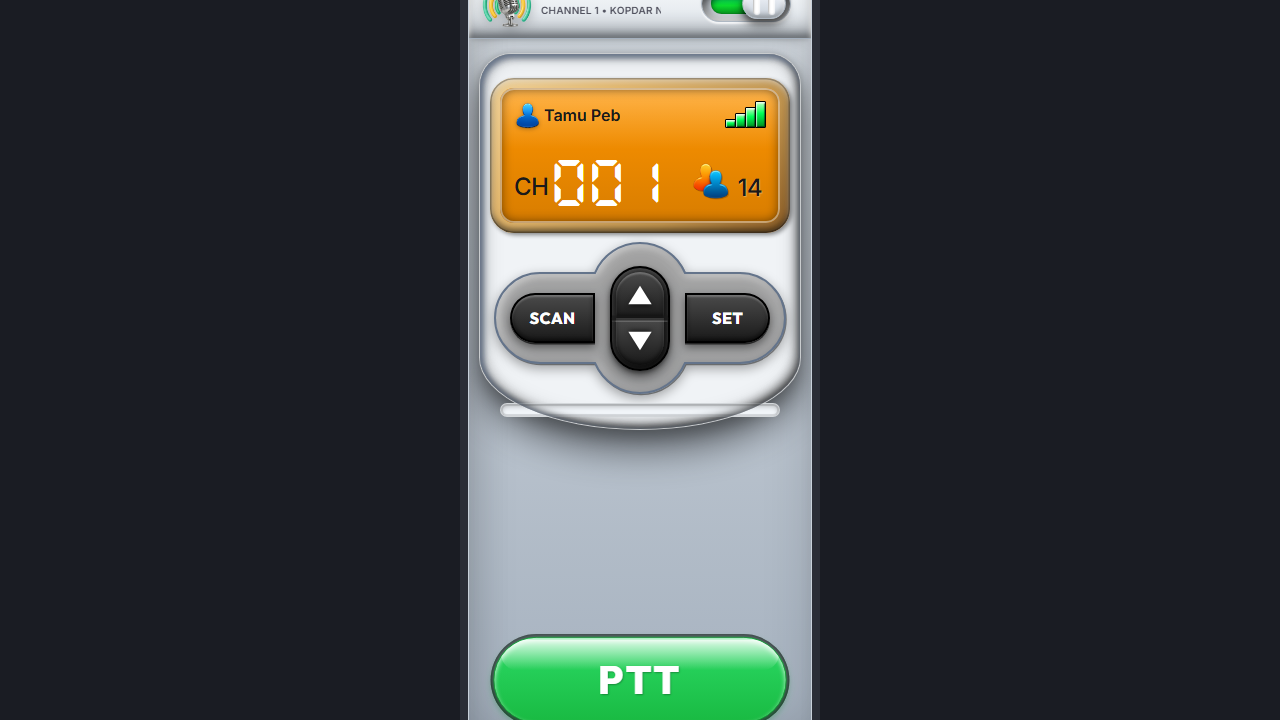
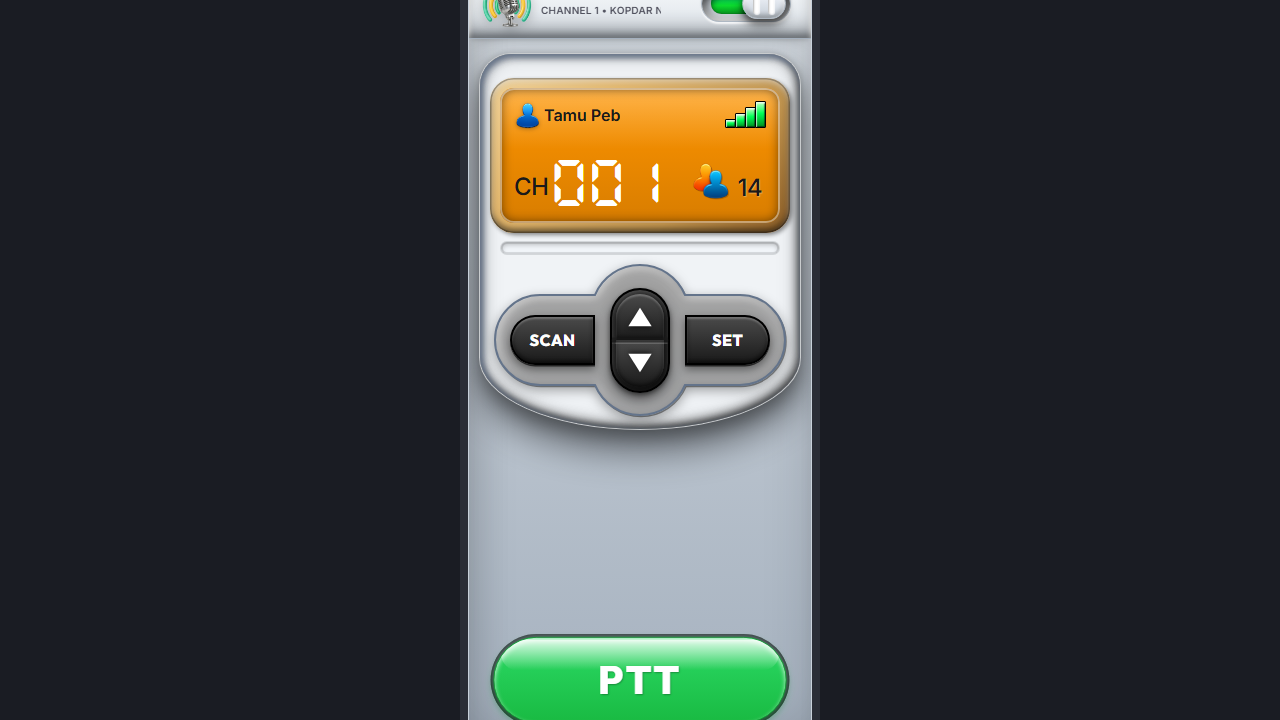
refactor: restore original layout order and add agent rules for visual integrity

Changed region(s): [[0.375, 0.3361, 0.625, 0.5806]]

diff --git a/src/app/components/RadioLayout.tsx b/src/app/components/RadioLayout.tsx
@@ -770,37 +770,37 @@ export function RadioLayout() {
               setIsTransmitting(true);
             }}
             onPressEnd={() => setIsTransmitting(false)}
-          >
-            {/* LCD Panel inside Faceplate */}
-            <RadioLCD
-              userCount={dynamicUserCount}
-              onUserCountClick={() => setIsUserListOpen(true)}
-            />
-
-            {/* D-pad Footer Buttons inside Faceplate */}
-            <RadioFooter
-              onScan={() => setIsChannelListOpen(true)}
-              onSet={handleSet}
-            />
-          </RadioBody>
-
-          {/* Quick Action Dock */}
-          <RadioQuickDock
-            isUserListOpen={isUserListOpen}
-            onOpenChat={() => setIsChatOpen(true)}
-            onOpenQueue={() => setIsQueueOpen(true)}
-            onSendReaction={handleSendReaction}
-            getThemeClass={getThemeClass}
+            lcd={
+              <RadioLCD
+                userCount={dynamicUserCount}
+                onUserCountClick={() => setIsUserListOpen(true)}
+              />
+            }
+            footer={
+              <RadioFooter
+                onScan={() => setIsChannelListOpen(true)}
+                onSet={handleSet}
+              />
+            }
+            quickDock={
+              <RadioQuickDock
+                isUserListOpen={isUserListOpen}
+                onOpenChat={() => setIsChatOpen(true)}
+                onOpenQueue={() => setIsQueueOpen(true)}
+                onSendReaction={handleSendReaction}
+                getThemeClass={getThemeClass}
+              />
+            }
+            karaokePlayer={
+              isPowerOn && audioMode === 'music' && isKaraokePlayerOpen ? (
+                <div onClick={(e) => e.stopPropagation()}>
+                  <Suspense fallback={<KaraokePlayerSkeleton />}>
+                    <FloatingKaraokePlayer onClose={() => setIsKaraokePlayerOpen(false)} />
+                  </Suspense>
+                </div>
+              ) : null
+            }
           />
-
-          {/* Floating Karaoke Player — lazy-loaded, hanya mount saat mode music aktif */}
-          {isPowerOn && audioMode === 'music' && isKaraokePlayerOpen && (
-            <div onClick={(e) => e.stopPropagation()}>
-              <Suspense fallback={<KaraokePlayerSkeleton />}>
-                <FloatingKaraokePlayer onClose={() => setIsKaraokePlayerOpen(false)} />
-              </Suspense>
-            </div>
-          )}
         </div>
       )}
 

diff --git a/src/app/components/radio/RadioBody.tsx b/src/app/components/radio/RadioBody.tsx
@@ -33,7 +33,10 @@ interface RadioBodyProps {
   channelNameStr: string;
   onPressStart: () => void;
   onPressEnd: () => void;
-  children?: React.ReactNode; // LCD & Footer buttons inside Faceplate
+  lcd: React.ReactNode;
+  footer: React.ReactNode;
+  quickDock: React.ReactNode;
+  karaokePlayer: React.ReactNode;
 }
 
 export function RadioBody({
@@ -47,7 +50,10 @@ export function RadioBody({
   channelNameStr,
   onPressStart,
   onPressEnd,
-  children,
+  lcd,
+  footer,
+  quickDock,
+  karaokePlayer,
 }: RadioBodyProps) {
   const {
     isPowerOn,
@@ -135,8 +141,8 @@ export function RadioBody({
               }}
             />
             
-            {/* Render nested children (LCD and D-pad footer buttons) */}
-            {children}
+            {/* Render LCD Panel */}
+            {lcd}
 
             {/* Progress Bar (Modulator) */}
             {showModulator && (
@@ -146,6 +152,9 @@ export function RadioBody({
                 <ProgressBar progress={progress} />
               </div>
             )}
+
+            {/* Render Control Buttons */}
+            {footer}
           </div>
         </div>
       )}
@@ -291,7 +300,7 @@ export function RadioBody({
                           ? undefined
                           : 'rocket3d 4s ease-out forwards',
                         filter:
-                          'drop-shadow(0 0 10px rgba(255,140,0,0.9)) drop-shadow(0 6px 12px rgba(0,0,0,0.5))',
+                          'drop-shadow(0 0 10px rgba(255,140,0,0.95)) drop-shadow(0 6px 12px rgba(0,0,0,0.5))',
                       }}
                     >
                       🚀
@@ -447,6 +456,9 @@ export function RadioBody({
         </div>
       )}
 
+      {/* Render Quick Action Dock */}
+      {quickDock}
+
       {/* PTT Button */}
       {showPTT && (
         <div
@@ -469,6 +481,9 @@ export function RadioBody({
           </div>
         </div>
       )}
+
+      {/* Render Floating Karaoke Player */}
+      {karaokePlayer}
     </div>
   );
 }

diff --git a/.agents/AGENTS.md b/.agents/AGENTS.md
@@ -8,3 +8,18 @@
     `C:\Users\ASUS\AppData\Local\Google\Cloud SDK\google-cloud-sdk\bin`
   - **Path Refresh Command**: To refresh PATH in the current PowerShell terminal session and execute gcloud/bq commands:
     `$env:Path = [System.Environment]::GetEnvironmentVariable("Path","Machine") + ";" + [System.Environment]::GetEnvironmentVariable("Path","User")`
+
+## Codebase Architecture & UI Layout Rules
+
+To ensure visual integrity and prevent regressions in UI elements:
+1. **Vertical DOM Layout Hierarchy & Order:**
+   - Inside the main Walkie-Talkie Faceplate container, components must strictly follow this order:
+     1. LCD Display Panel (`RadioLCD`)
+     2. Visualizer Progress Bar (`ProgressBar`)
+     3. D-Pad Control Buttons (`RadioFooter` / `ControlButtons`)
+   - The Quick Action Dock (`RadioQuickDock`) must be rendered inside the body wrapper container (only visible when the User List Modal is open).
+   - Any refactoring must preserve this visual order by utilizing React slots/props (`lcd`, `footer`, `quickDock`, `karaokePlayer`) passed into the main `RadioBody` container, rather than rearranging them in the render tree.
+
+2. **Component Separation Rules:**
+   - Expose no global stores on `window` (use normal imports).
+   - Maintain the separation of stores, hooks, services, and UI components as refactored during Sprint 2.